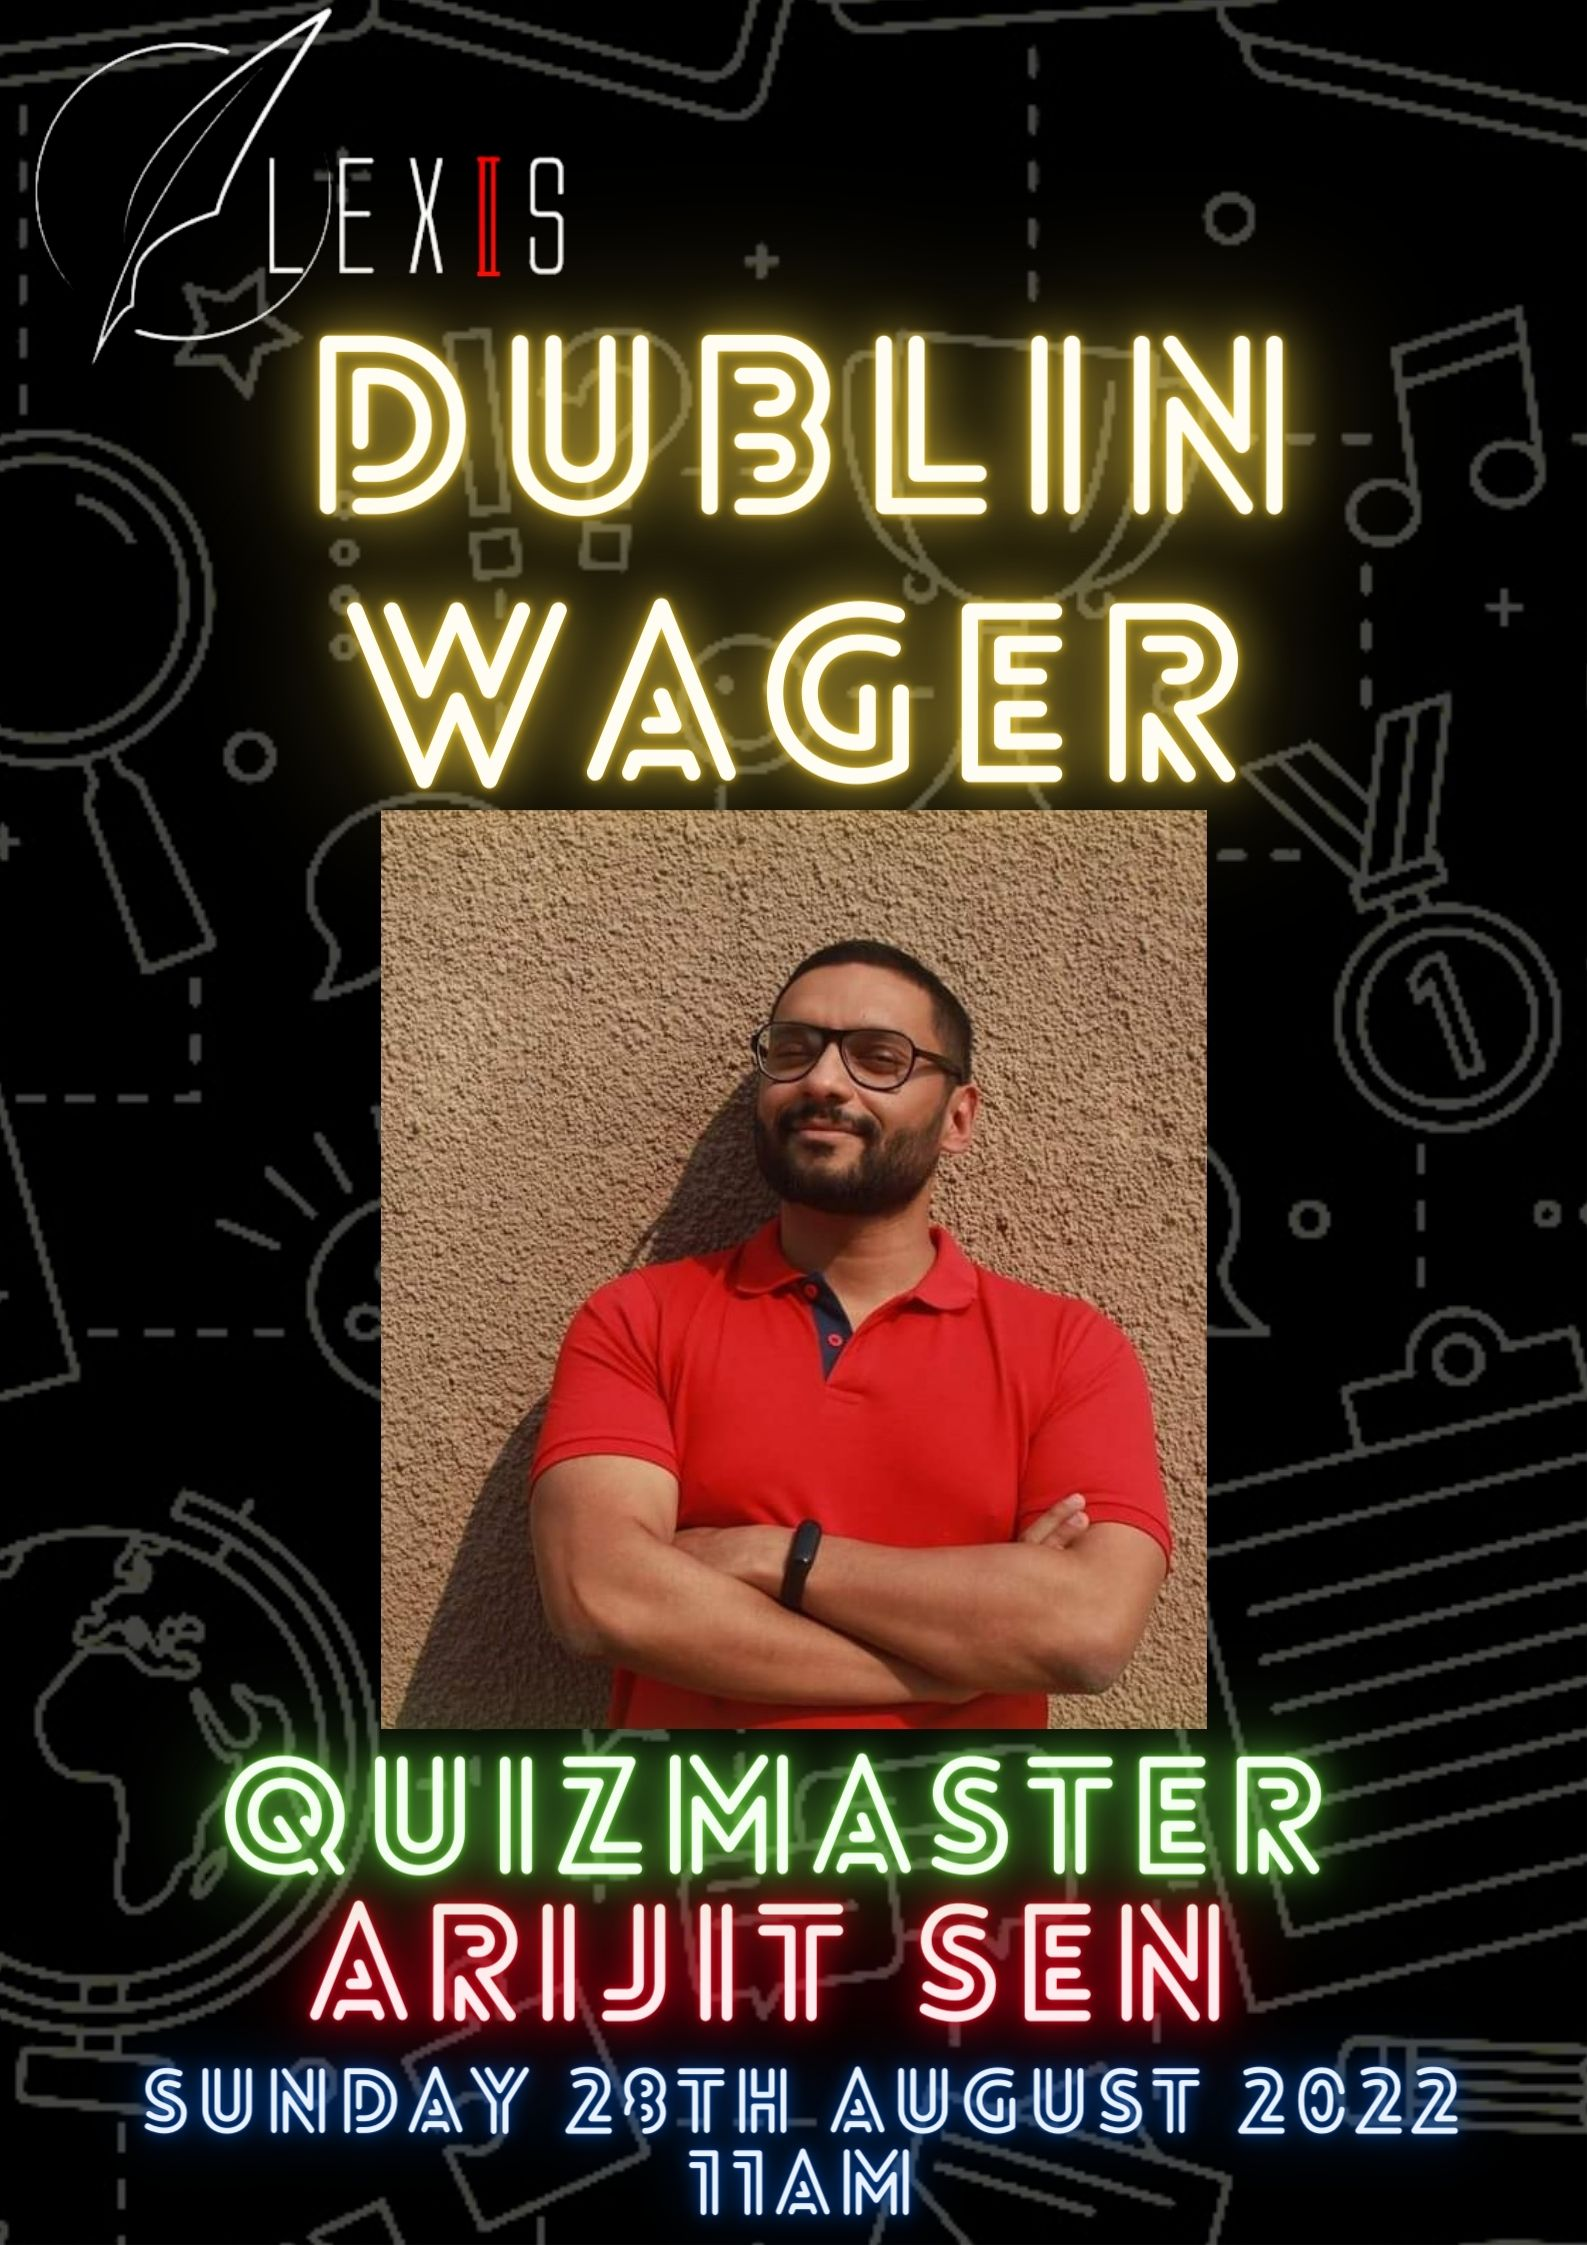
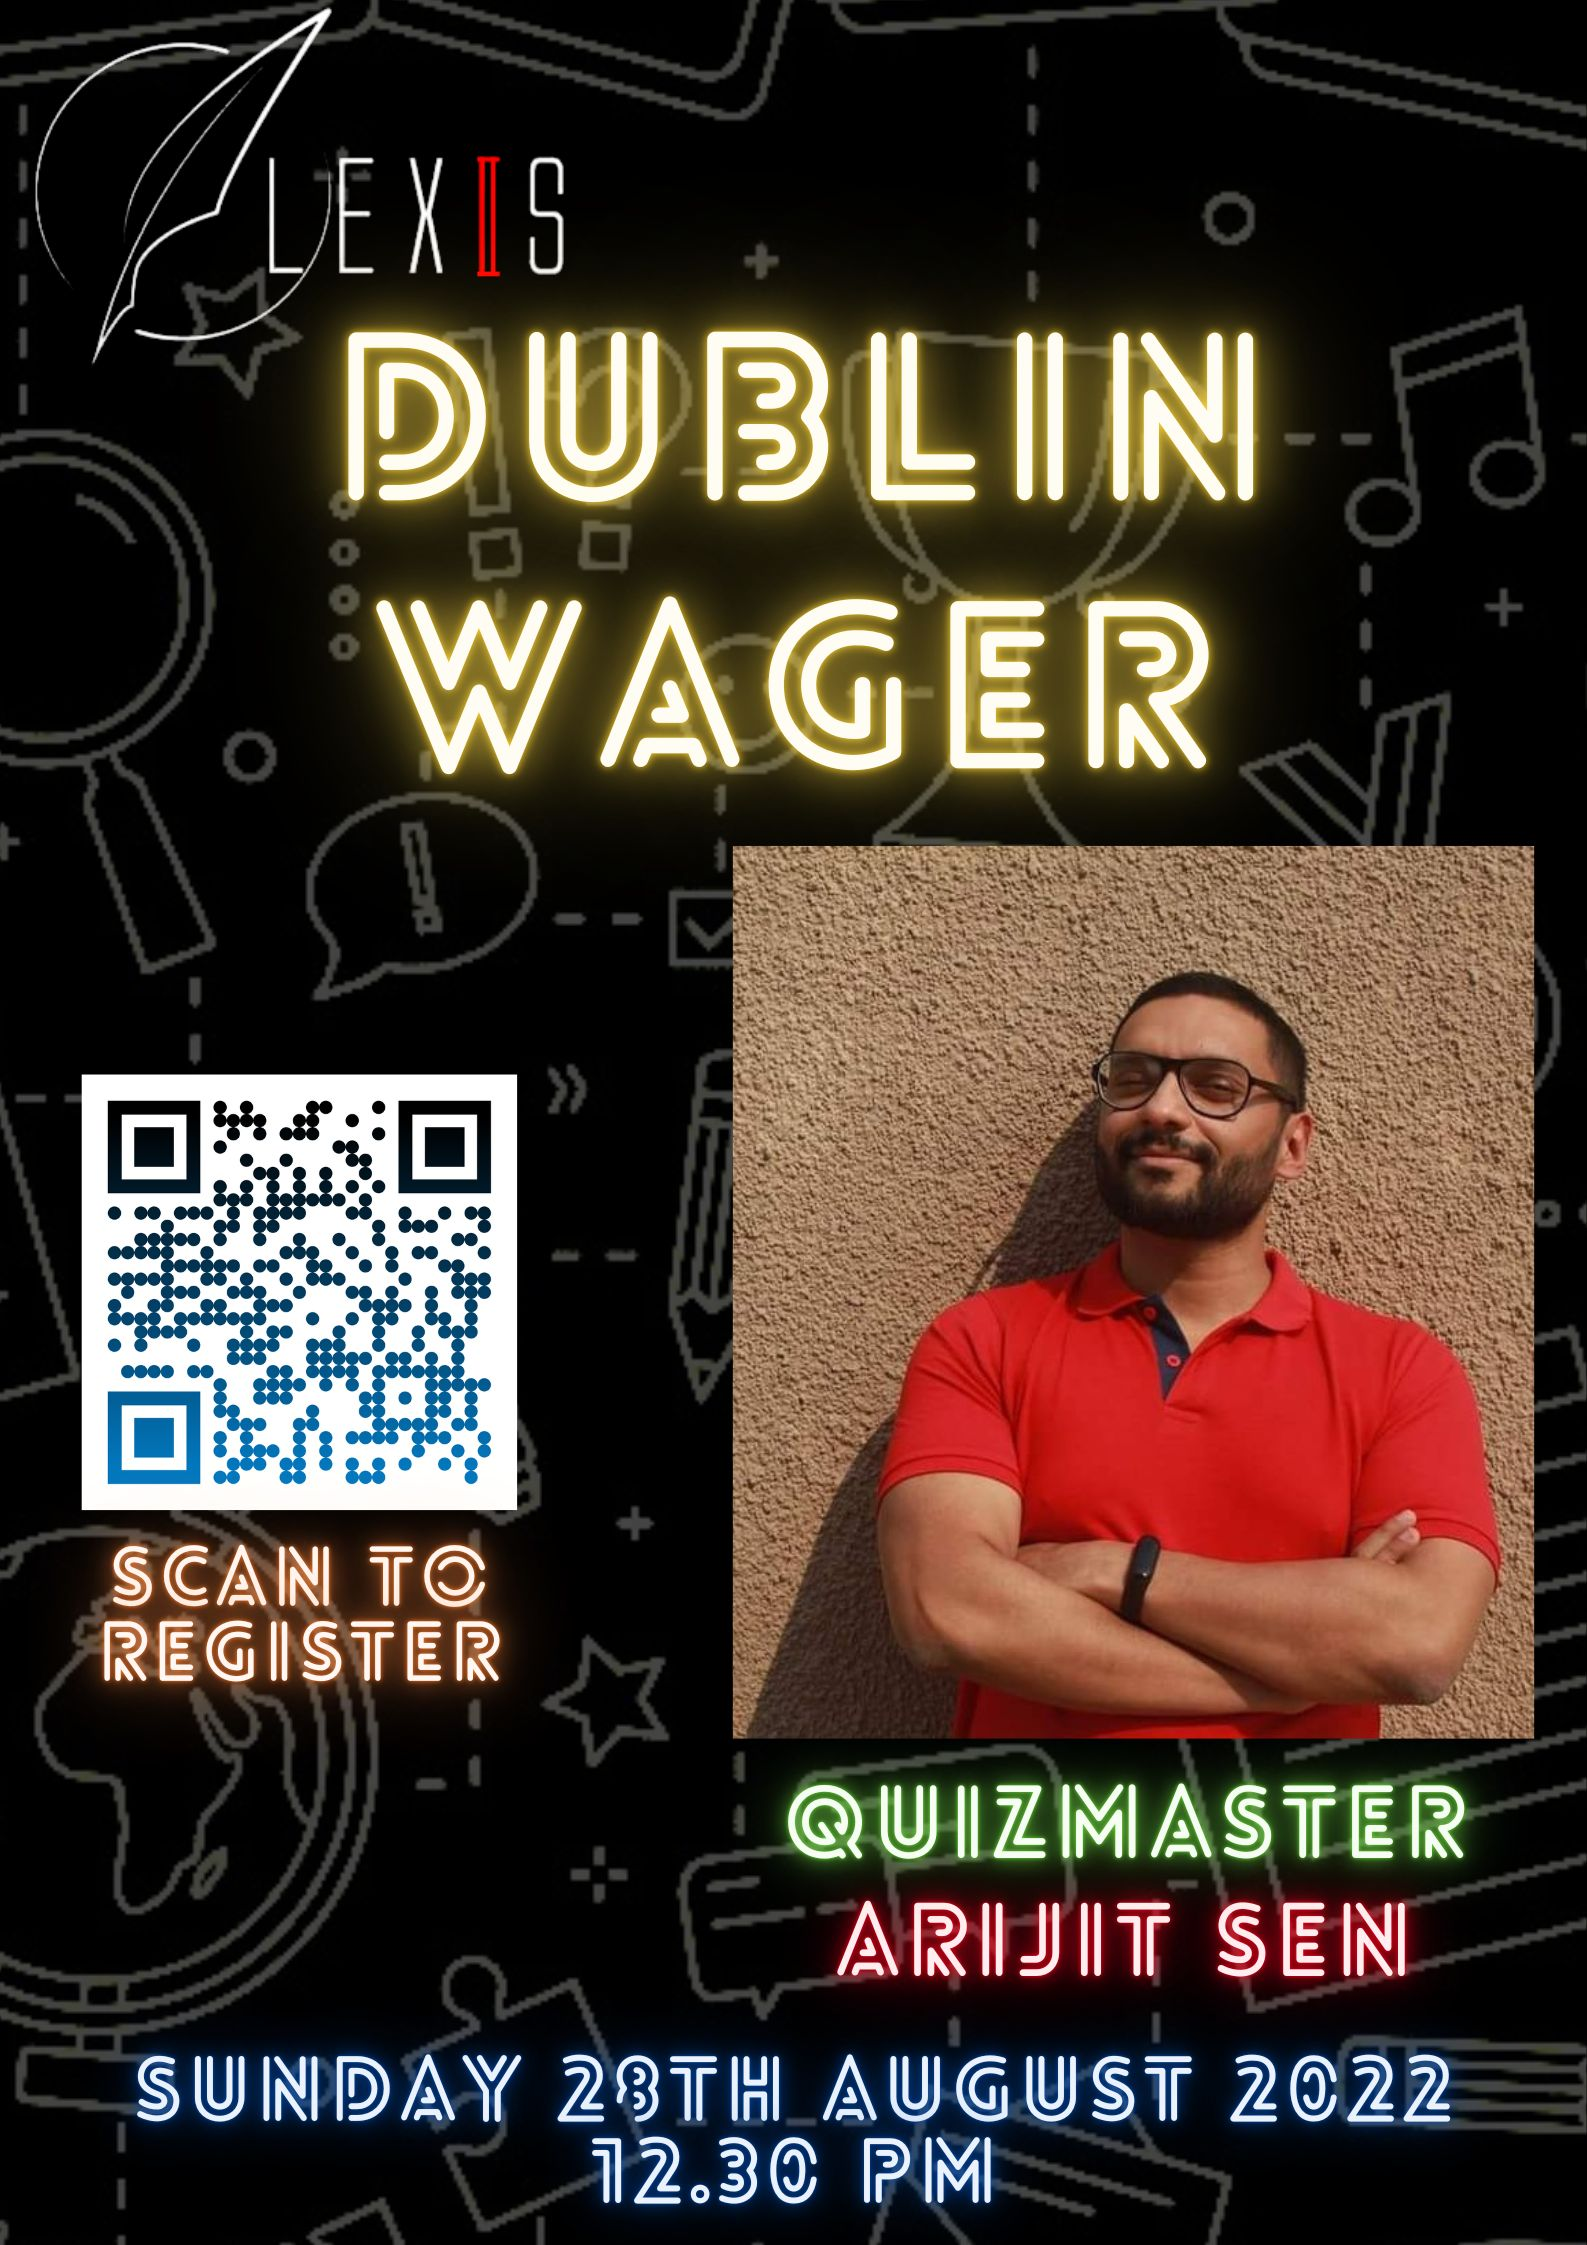
update dublin wager info

diff --git a/src/pages/events/dublin_wager.svelte b/src/pages/events/dublin_wager.svelte
@@ -4,6 +4,7 @@
   import P from 'src/md/P.svelte'
   import Strong from 'src/md/Strong.svelte'
   import List from 'src/md/List.svelte'
+  import Link from 'src/md/Link.svelte'
 </script>
 
 <H1>Dublin Wager</H1>
@@ -20,6 +21,11 @@
   <i>
     P.S: Did you know that peanut oil is used as an ingredient in dynamite?
   </i>
+</P>
+
+<P>
+  <Strong>Registeration Form:</Strong>
+  <Link href="https://forms.gle/fJFgV8QEobXfFoKv6" />
 </P>
 
 <H2>Rules</H2>

diff --git a/src/md/Link.svelte b/src/md/Link.svelte
@@ -1,0 +1,5 @@
+<script lang="ts">
+  export let href: string
+</script>
+
+<a {href} target="_blank" class="text-blue-400 hover:underline">{href}</a>
